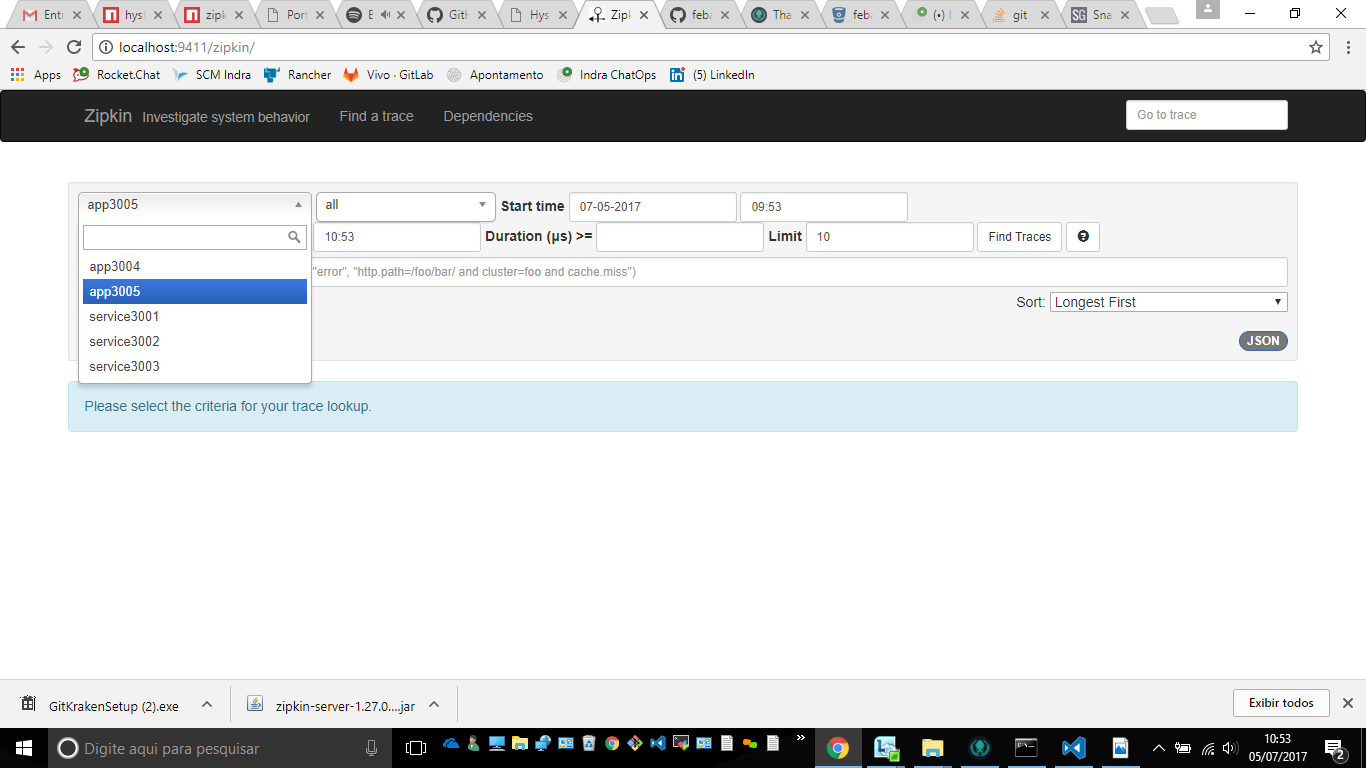
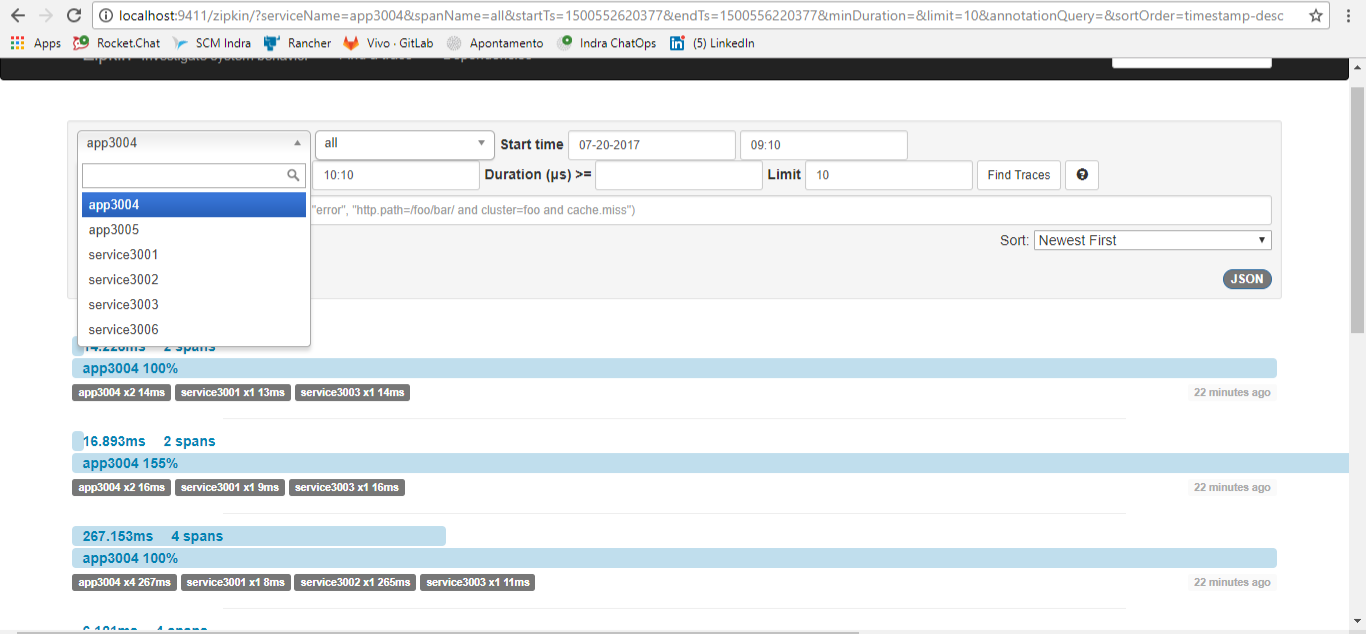
README
Atualização da documentação do zipkin.

diff --git a/README.md b/README.md
@@ -128,18 +128,34 @@ http://localhost:3005/api/hystrix.stream
 Exemplo: 
 ![Alt text](./img/README/2F8cCD.jpg?raw=true "Hystrix")
 
+![Alt text](./img/README/DJEMtp.jpg?raw=true "HystrixStream1")
+
+![Alt text](./img/README/ZA6i1q.jpg?raw=true "HystrixStream2")
+
 https://www.npmjs.com/package/hystrix-dashboard
 
-<b>Zipkin</b>
+<h1>
+    <b>Zipkin</b>
+</h1>
 
 Zipkin é um sistema de tracing, que pode ser implementado de diferentes formas dependendo da arquitetura de seu sistema.
+
+<b>Implementação na aplicação</b>
+
+```Batchfile
+npm install --save zipkin
+npm install --save zipkin-instrumentation-cujojs-rest
+```
 
 ```javascript
 const CLSContext = require('zipkin-context-cls'),
       {Tracer} = require('zipkin'),
       {recorder} = require('./recorder'),
       ctxImpl = new CLSContext('zipkin'),
-      tracer = new Tracer({ctxImpl, recorder});
+      tracer = new Tracer({ctxImpl, recorder}),
+      rest = require('rest');
+      
+      
 
 //var to instrument the zipkin server           
 var zipKinMidleware = require('zipkin-instrumentation-express').expressMiddleware;
@@ -151,6 +167,22 @@ app.use(
         serviceName: 'app' + port
     })
 );
+
+// instrument the client
+const {restInterceptor} = require('zipkin-instrumentation-cujojs-rest');
+
+const zipkinRest = rest.wrap(
+    restInterceptor, 
+    {
+        tracer, 
+        serviceName: 'xpto'
+    }
+);
+
+//
+var makeRequest = function(url){
+    return zipkinRest(url);
+};
 ```
 
 Traces
@@ -159,9 +191,10 @@ Traces
 Dependências
 ![Alt text](./img/README/DJdkLG.jpg?raw=true "ZipkinDependences")
 
+https://www.npmjs.com/package/zipkin
 https://github.com/openzipkin/zipkin-js
 
-<b></b>
+<b>Consul</b>
 
 
 
